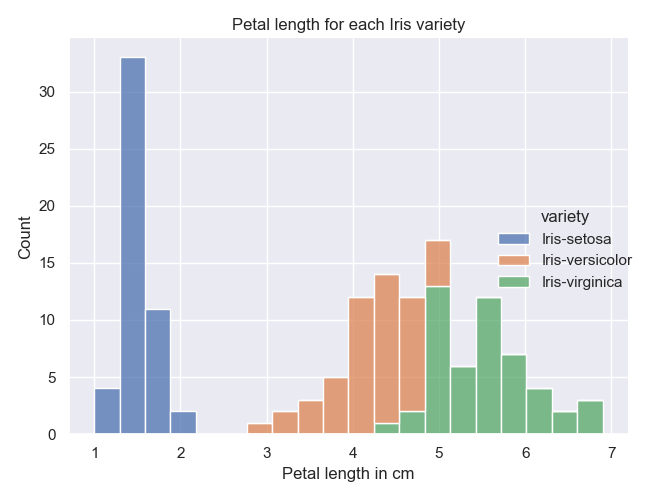
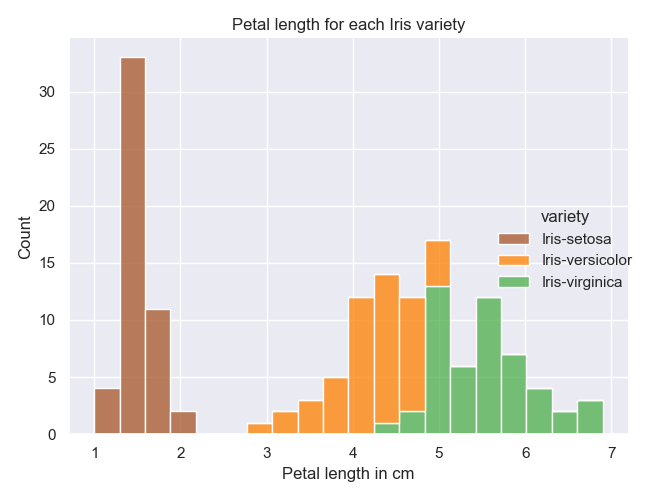
changed colour palette of histograms. created overall pairplot and three pairplots based on sub-sections of dataset. amendments to comments

diff --git a/analysis.py b/analysis.py
@@ -112,8 +112,6 @@ def summary_statistics():
 summary_statistics()
 
 
-
-
 # The below section of this script generates the histograms for the project.
 # sns.set() imposes one of five general themes on to the histograms.
 # sns.displot creates each histogram: here we pass in the Dataframe, df, which we will generate the histogram from,
@@ -123,35 +121,67 @@ summary_statistics()
 # This allows us to compare the distribution of each trait for each variety of Iris flower.
 # The 'stack' argument causes the data to overlap in a stacked fashion, rather than layering them over each other transparently,
 # which I think makes it harder to compare the data.
+# I experimented with different Seaborn palettes and decided upon the reversed form of the 'Set1' palette, as I find the 
+# combination of colours attractive and earthy, which is appropriate for a data analysis project about Iris flowers! 
+# They also contrast enough to make it easy to know which data is sourced from which Iris variety.
 # Reference: https://seaborn.pydata.org/tutorial/distributions.html?highlight=histogram
+# Reference: https://r02b.github.io/seaborn_palettes/ 
 
 sns.set(style="darkgrid")
 
-
-sepal_length = sns.displot(df, x ="sepal length", bins = 20, hue ="variety", multiple = "stack").set(title = "Sepal length for each Iris variety", xlabel = "Sepal length in cm")
-# sns.move_legend(sepal_length, "upper left", bbox_to_anchor=(1, 1))
+sepal_length = sns.displot(df, x ="sepal length", bins = 20, hue ="variety", palette = "Set1_r", multiple = "stack").set(title = "Sepal length for each Iris variety", xlabel = "Sepal length in cm")
 plt.tight_layout()
 plt.savefig('sepal_length_varieties.png')
 
 
-sepal_width = sns.displot(df, x ="sepal width", bins = 20, hue ="variety", multiple = "stack").set(title = "Sepal width for each Iris variety", xlabel = "Sepal width in cm")
+sepal_width = sns.displot(df, x ="sepal width", bins = 20, hue ="variety", palette = "Set1_r", multiple = "stack").set(title = "Sepal width for each Iris variety", xlabel = "Sepal width in cm")
 plt.tight_layout()
 plt.savefig('sepal_width_varieties.png')
 
 
-petal_length = sns.displot(df, x ="petal length", bins = 20, hue ="variety", multiple = "stack").set(title = "Petal length for each Iris variety", xlabel = "Petal length in cm")
+petal_length = sns.displot(df, x ="petal length", bins = 20, hue ="variety", palette = "Set1_r", multiple = "stack").set(title = "Petal length for each Iris variety", xlabel = "Petal length in cm")
 plt.tight_layout()
 plt.savefig('petal_length_varieties.png')
 
 
-petal_width = sns.displot(df, x ="petal width", bins = 20, hue ="variety", multiple = "stack").set(title = "Petal width for each Iris variety", xlabel = "Petal width in cm")
+petal_width = sns.displot(df, x ="petal width", bins = 20, hue ="variety", palette = "Set1_r", multiple = "stack").set(title = "Petal width for each Iris variety", xlabel = "Petal width in cm")
 plt.tight_layout()
 plt.savefig('petal_width_varieties.png')
 
 
+# This section of my script relates to scatterplots. To capture the 6 different trait-pair combinations, I have used a pairplot.
+# I created a pairplot based on the data set as a whole which show the correlation between the 6 different pairs of traits
+# within the whole sample, and also created three pairplots where each is based only on the data relating to a single Iris species.
 
-#sns.pairplot(df)
-#plt.savefig('iris_pairplot.png')
+
+sns.set(style = "white")
+
+sns.pairplot(df, hue = "variety", palette="Dark2")
+plt.savefig('iris_pairplot.png')
+
+
+# The df.loc[] property allows us to create three 'sub-DataFrames' from the overall Dataframe, based on the condition 
+# that the entry in the 'variety' column equals one of the three varieties of Iris. I will then assign it to a variable 
+# and use that variable to create pairplots for each trait within each class of Iris flower. 
+# Reference: https://sparkbyexamples.com/pandas/pandas-dataframe-loc/
+
+setosa = df.loc[df['variety']=="Iris-setosa"]
+versicolor = df.loc[df['variety']=="Iris-versicolor"]
+virginica = df.loc[df['variety']=="Iris-virginica"]
+
+
+sns.pairplot(setosa, palette="Dark2")
+plt.savefig('setosa_pairplot.png')
+
+sns.pairplot(versicolor, palette="Dark2")
+plt.savefig('versicolor_pairplot.png')
+
+sns.pairplot(virginica, palette="Dark2")
+plt.savefig('virginica_pairplot.png')
+
+
+
+
 
 # boxplots:
 
